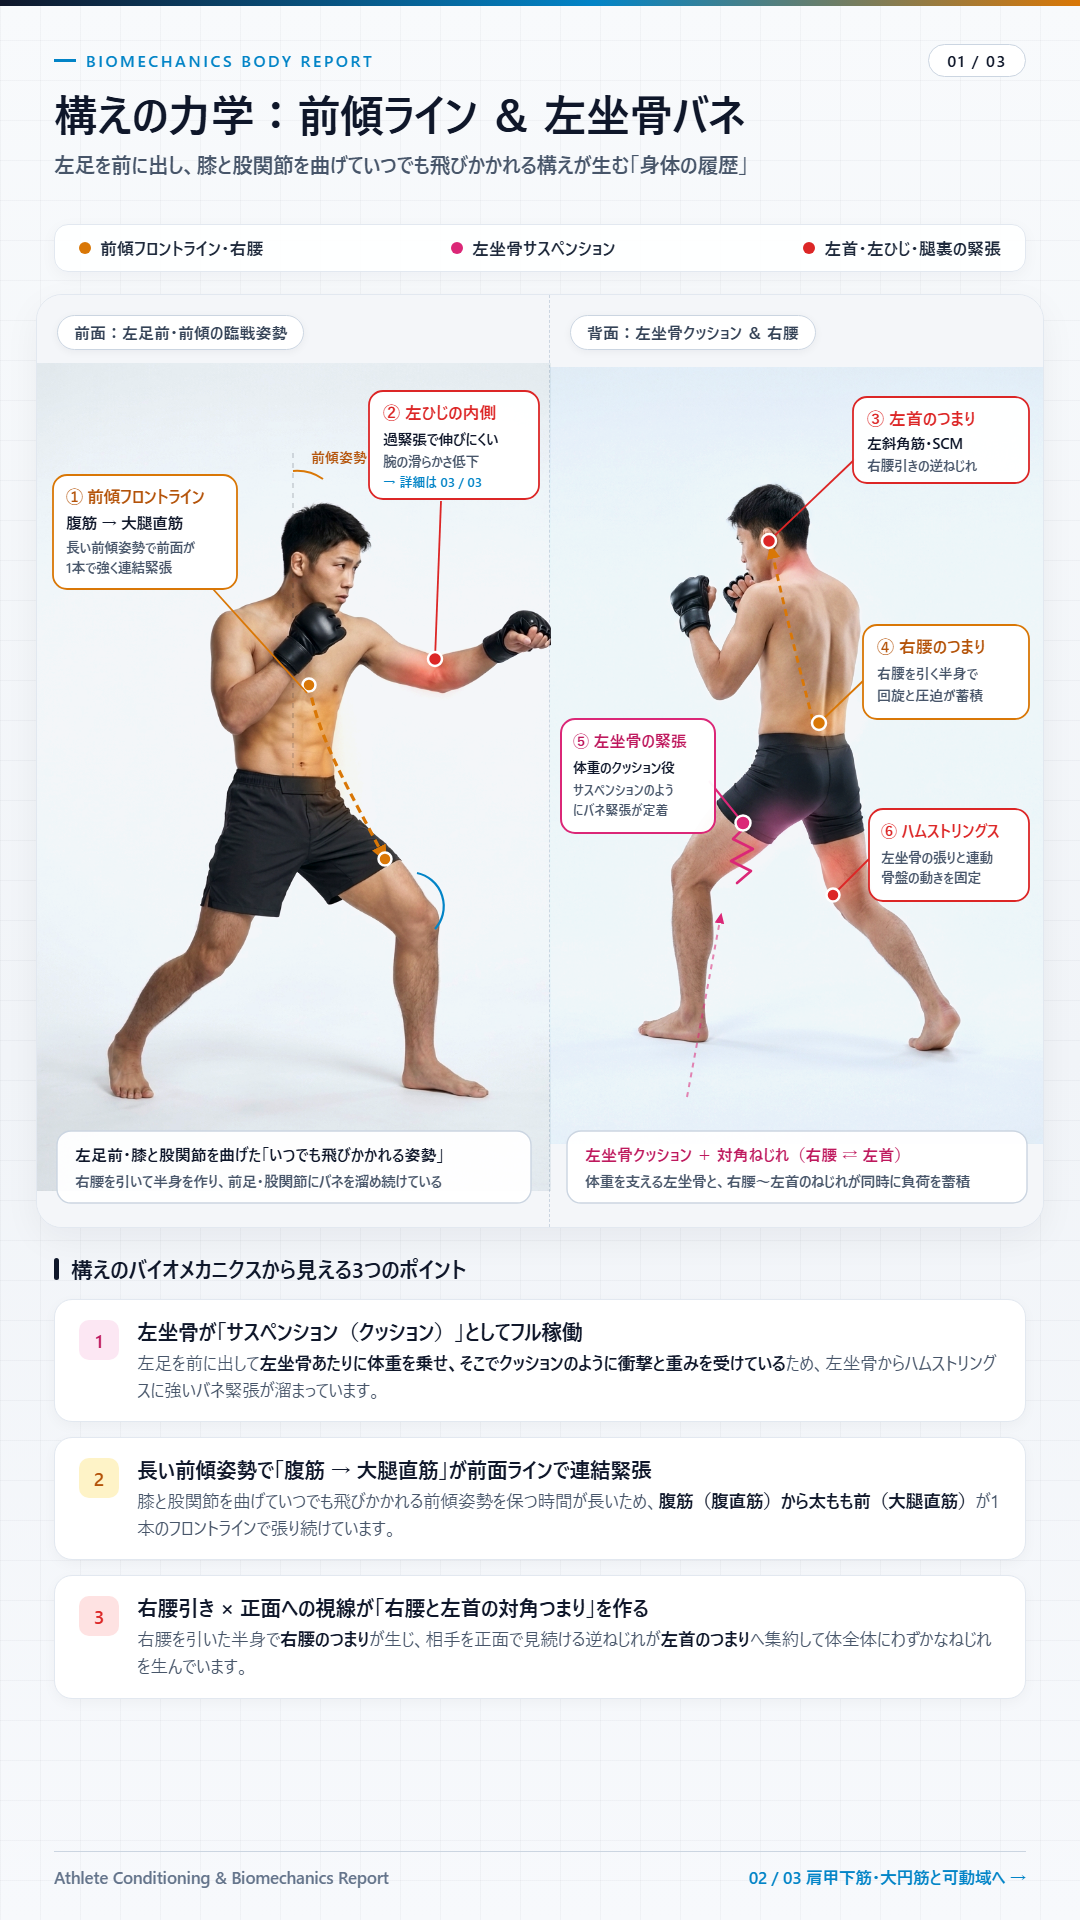
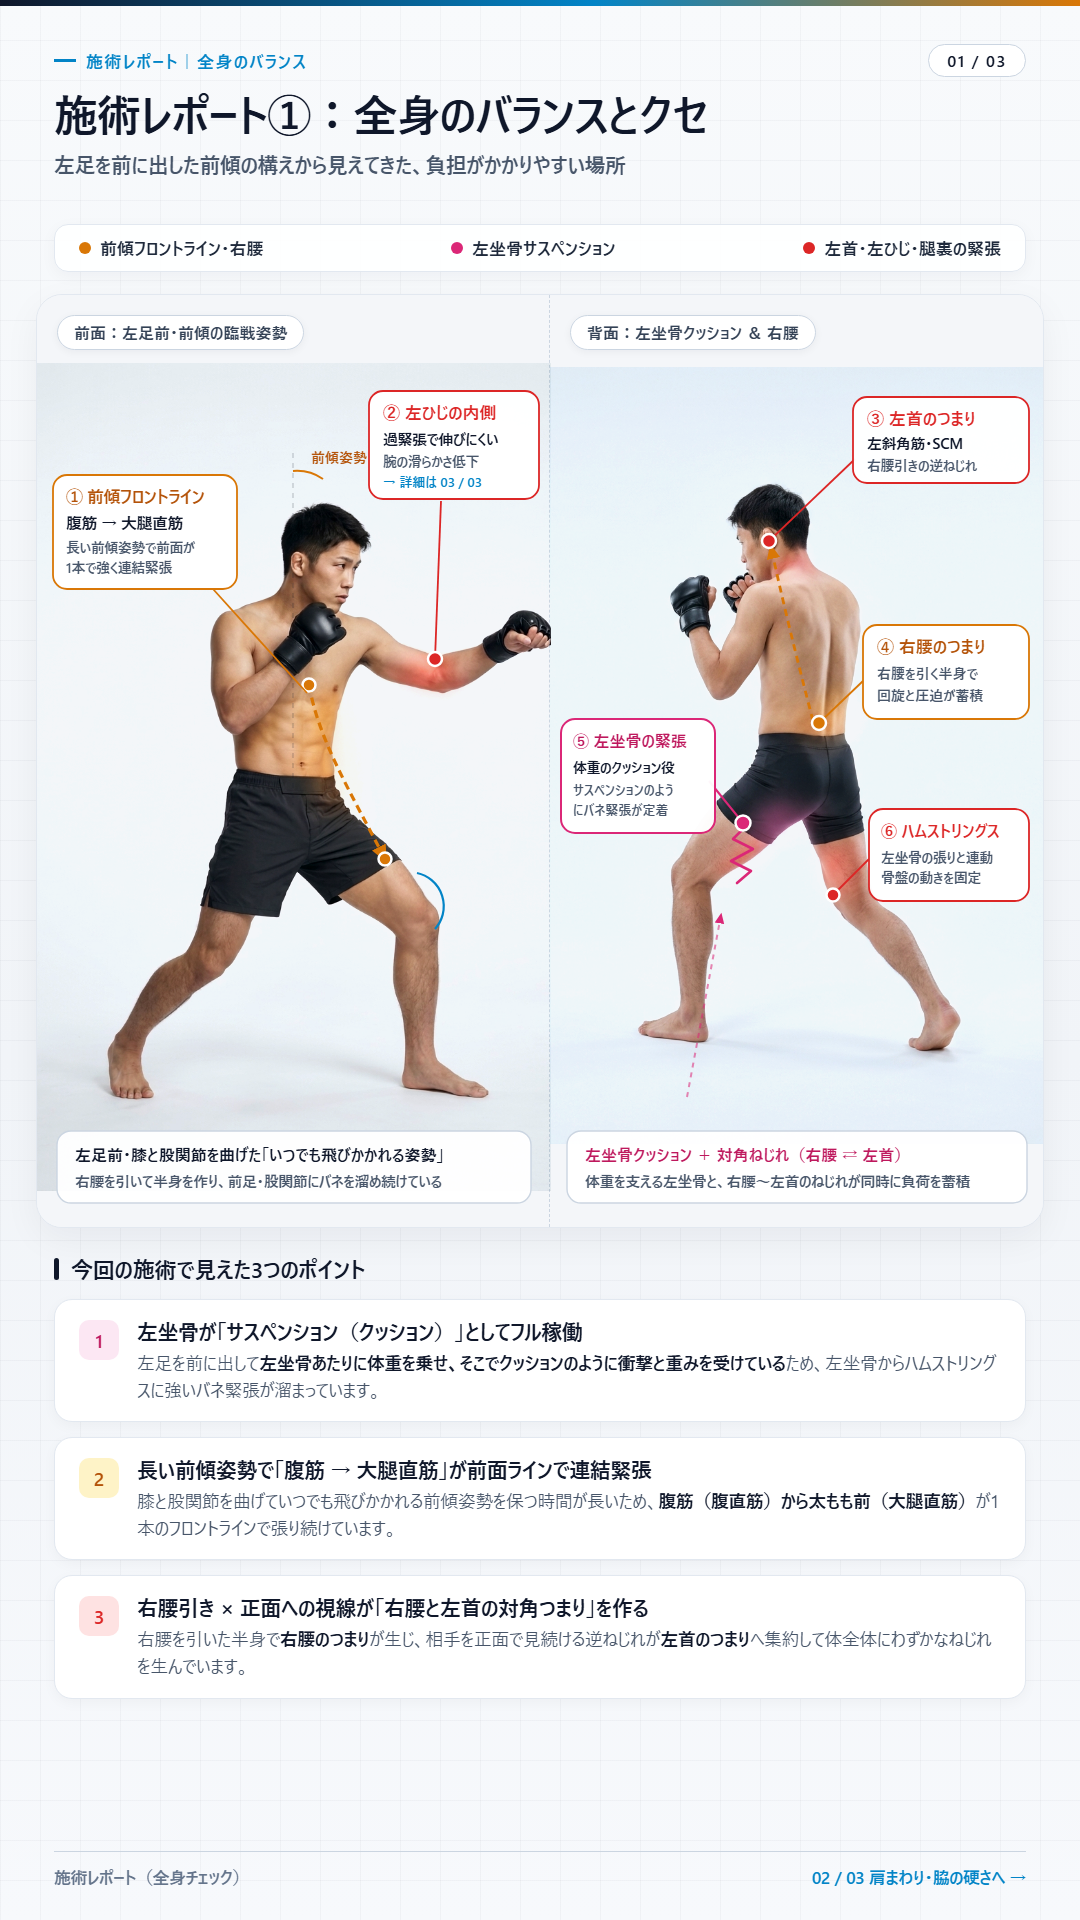
Update shared report titles to plain Japanese treatment report wording

diff --git a/report/bm-7m4x9k/index.html b/report/bm-7m4x9k/index.html
@@ -4,15 +4,15 @@
   <meta charset="UTF-8" />
   <meta name="viewport" content="width=device-width, initial-scale=1.0, viewport-fit=cover" />
   <meta name="robots" content="noindex, nofollow, noarchive" />
-  <title>Biomechanics Body Report｜身体の履歴レポート（全3枚）</title>
-  <meta name="description" content="左足前・前傾構えの力学、肩甲下筋・大円筋による肩甲骨ロック、左腕の筋膜ねじれ連鎖とケア順序をまとめた3枚レポートです。" />
+  <title>施術レポート（全3枚）</title>
+  <meta name="description" content="今回の施術で見えた全身のバランス、肩と脇の硬さ、左腕のねじれと整える順番をまとめた3枚の施術レポートです。" />
 
   <!-- OGP for clean LINE / SNS card preview -->
   <meta property="og:type" content="website" />
-  <meta property="og:title" content="Biomechanics Body Report｜身体の履歴レポート（全3枚）" />
-  <meta property="og:description" content="構えの力学・肩甲骨と脇まわりの可動域・左腕の筋膜連鎖を可視化したコンディショニングレポート" />
+  <meta property="og:title" content="施術レポート（全3枚）" />
+  <meta property="og:description" content="全身のバランス・肩と脇の硬さ・左腕のねじれと整える順番をわかりやすくまとめた施術レポート" />
   <meta property="og:url" content="https://promisefree-cmyk.github.io/trip/report/bm-7m4x9k/" />
-  <meta property="og:image" content="https://promisefree-cmyk.github.io/trip/report/bm-7m4x9k/01_stance_frontline.png" />
+  <meta property="og:image" content="https://promisefree-cmyk.github.io/trip/report/bm-7m4x9k/01_stance_frontline.png?v=2" />
   <meta name="twitter:card" content="summary_large_image" />
 
   <style>
@@ -60,11 +60,10 @@
       display: flex;
       align-items: center;
       gap: 8px;
-      font-size: 12px;
+      font-size: 14px;
       font-weight: 800;
-      letter-spacing: 0.12em;
+      letter-spacing: 0.06em;
       color: var(--accent);
-      text-transform: uppercase;
     }
     .brand-bar {
       width: 14px;
@@ -242,13 +241,13 @@
   <header class="topbar">
     <div class="topbar-inner">
       <div class="brand-row">
-        <div class="brand"><span class="brand-bar"></span>BIOMECHANICS REPORT</div>
-        <span class="badge">全3枚・スマホ最適化</span>
+        <div class="brand"><span class="brand-bar"></span>施術レポート</div>
+        <span class="badge">全3枚・スマホ用</span>
       </div>
       <nav class="nav-tabs" aria-label="レポート切り替え">
-        <a href="#sheet-1" class="nav-tab active" data-target="sheet-1">01 構え・左坐骨</a>
-        <a href="#sheet-2" class="nav-tab" data-target="sheet-2">02 肩甲骨・脇</a>
-        <a href="#sheet-3" class="nav-tab" data-target="sheet-3">03 左腕・ケア順</a>
+        <a href="#sheet-1" class="nav-tab active" data-target="sheet-1">① 全身バランス</a>
+        <a href="#sheet-2" class="nav-tab" data-target="sheet-2">② 肩・脇の硬さ</a>
+        <a href="#sheet-3" class="nav-tab" data-target="sheet-3">③ 左腕・ケア順</a>
       </nav>
     </div>
   </header>
@@ -257,53 +256,53 @@
     <p class="intro-hint">画像はタップで拡大表示、または各カード下のボタンから高画質のまま保存できます。</p>
 
     <article id="sheet-1" class="sheet-card">
-      <div class="sheet-img-wrap" data-zoom="01_stance_frontline.png">
-        <img class="sheet-img" src="01_stance_frontline.png" alt="01 構えの力学：前傾フロントラインと左坐骨サスペンション" fetchpriority="high" />
+      <div class="sheet-img-wrap" data-zoom="01_stance_frontline.png?v=2">
+        <img class="sheet-img" src="01_stance_frontline.png?v=2" alt="施術レポート①：全身のバランスとクセ" fetchpriority="high" />
       </div>
       <div class="sheet-actions">
         <div>
-          <span class="sheet-label">01 / 03｜構えの力学・左坐骨</span>
-          <span class="sheet-sub">前傾ライン（腹筋→大腿直筋）と対角ねじれ</span>
+          <span class="sheet-label">01 / 03｜全身のバランスとクセ</span>
+          <span class="sheet-sub">左足前の構え・左坐骨の張り・前傾ラインと対角ねじれ</span>
         </div>
         <div class="btn-group">
-          <a class="btn btn-primary" href="01_stance_frontline.png" download="body_report_01_stance.png">保存</a>
+          <a class="btn btn-primary" href="01_stance_frontline.png?v=2" download="sejutsu_report_01.png">保存</a>
         </div>
       </div>
     </article>
 
     <article id="sheet-2" class="sheet-card">
-      <div class="sheet-img-wrap" data-zoom="02_scapula_axilla.png">
-        <img class="sheet-img" src="02_scapula_axilla.png" alt="02 肩甲骨・脇ロックと腕の可動域制限（肩甲下筋・大円筋）" loading="lazy" />
+      <div class="sheet-img-wrap" data-zoom="02_scapula_axilla.png?v=2">
+        <img class="sheet-img" src="02_scapula_axilla.png?v=2" alt="施術レポート②：肩と脇の硬さ・腕の上がり" loading="lazy" />
       </div>
       <div class="sheet-actions">
         <div>
-          <span class="sheet-label">02 / 03｜肩甲骨・脇ロック</span>
-          <span class="sheet-sub">肩甲下筋・大円筋による腕の可動域制限</span>
+          <span class="sheet-label">02 / 03｜肩と脇の硬さ・腕の上がり</span>
+          <span class="sheet-sub">肩甲下筋と大円筋が肩甲骨を引き続ける仕組み</span>
         </div>
         <div class="btn-group">
-          <a class="btn btn-primary" href="02_scapula_axilla.png" download="body_report_02_scapula.png">保存</a>
+          <a class="btn btn-primary" href="02_scapula_axilla.png?v=2" download="sejutsu_report_02.png">保存</a>
         </div>
       </div>
     </article>
 
     <article id="sheet-3" class="sheet-card">
-      <div class="sheet-img-wrap" data-zoom="03_leftarm_care.png">
-        <img class="sheet-img" src="03_leftarm_care.png" alt="03 左腕の筋膜ねじれ連鎖と全身ケア4ステップ" loading="lazy" />
+      <div class="sheet-img-wrap" data-zoom="03_leftarm_care.png?v=2">
+        <img class="sheet-img" src="03_leftarm_care.png?v=2" alt="施術レポート③：左腕のねじれと整える順番" loading="lazy" />
       </div>
       <div class="sheet-actions">
         <div>
-          <span class="sheet-label">03 / 03｜左腕の筋膜連鎖</span>
-          <span class="sheet-sub">尺骨側手首→左首の連鎖と全身ケア4ステップ</span>
+          <span class="sheet-label">03 / 03｜左腕のねじれと整える順番</span>
+          <span class="sheet-sub">手首（尺骨側）から左首への連鎖とケア4ステップ</span>
         </div>
         <div class="btn-group">
-          <a class="btn btn-primary" href="03_leftarm_care.png" download="body_report_03_leftarm.png">保存</a>
+          <a class="btn btn-primary" href="03_leftarm_care.png?v=2" download="sejutsu_report_03.png">保存</a>
         </div>
       </div>
     </article>
   </main>
 
   <footer class="page-footer">
-    Athlete Conditioning &amp; Biomechanics Report
+    施術レポート（全3枚）
   </footer>
 
   <div id="lightbox" class="lightbox" role="dialog" aria-modal="true" aria-label="画像拡大表示">
